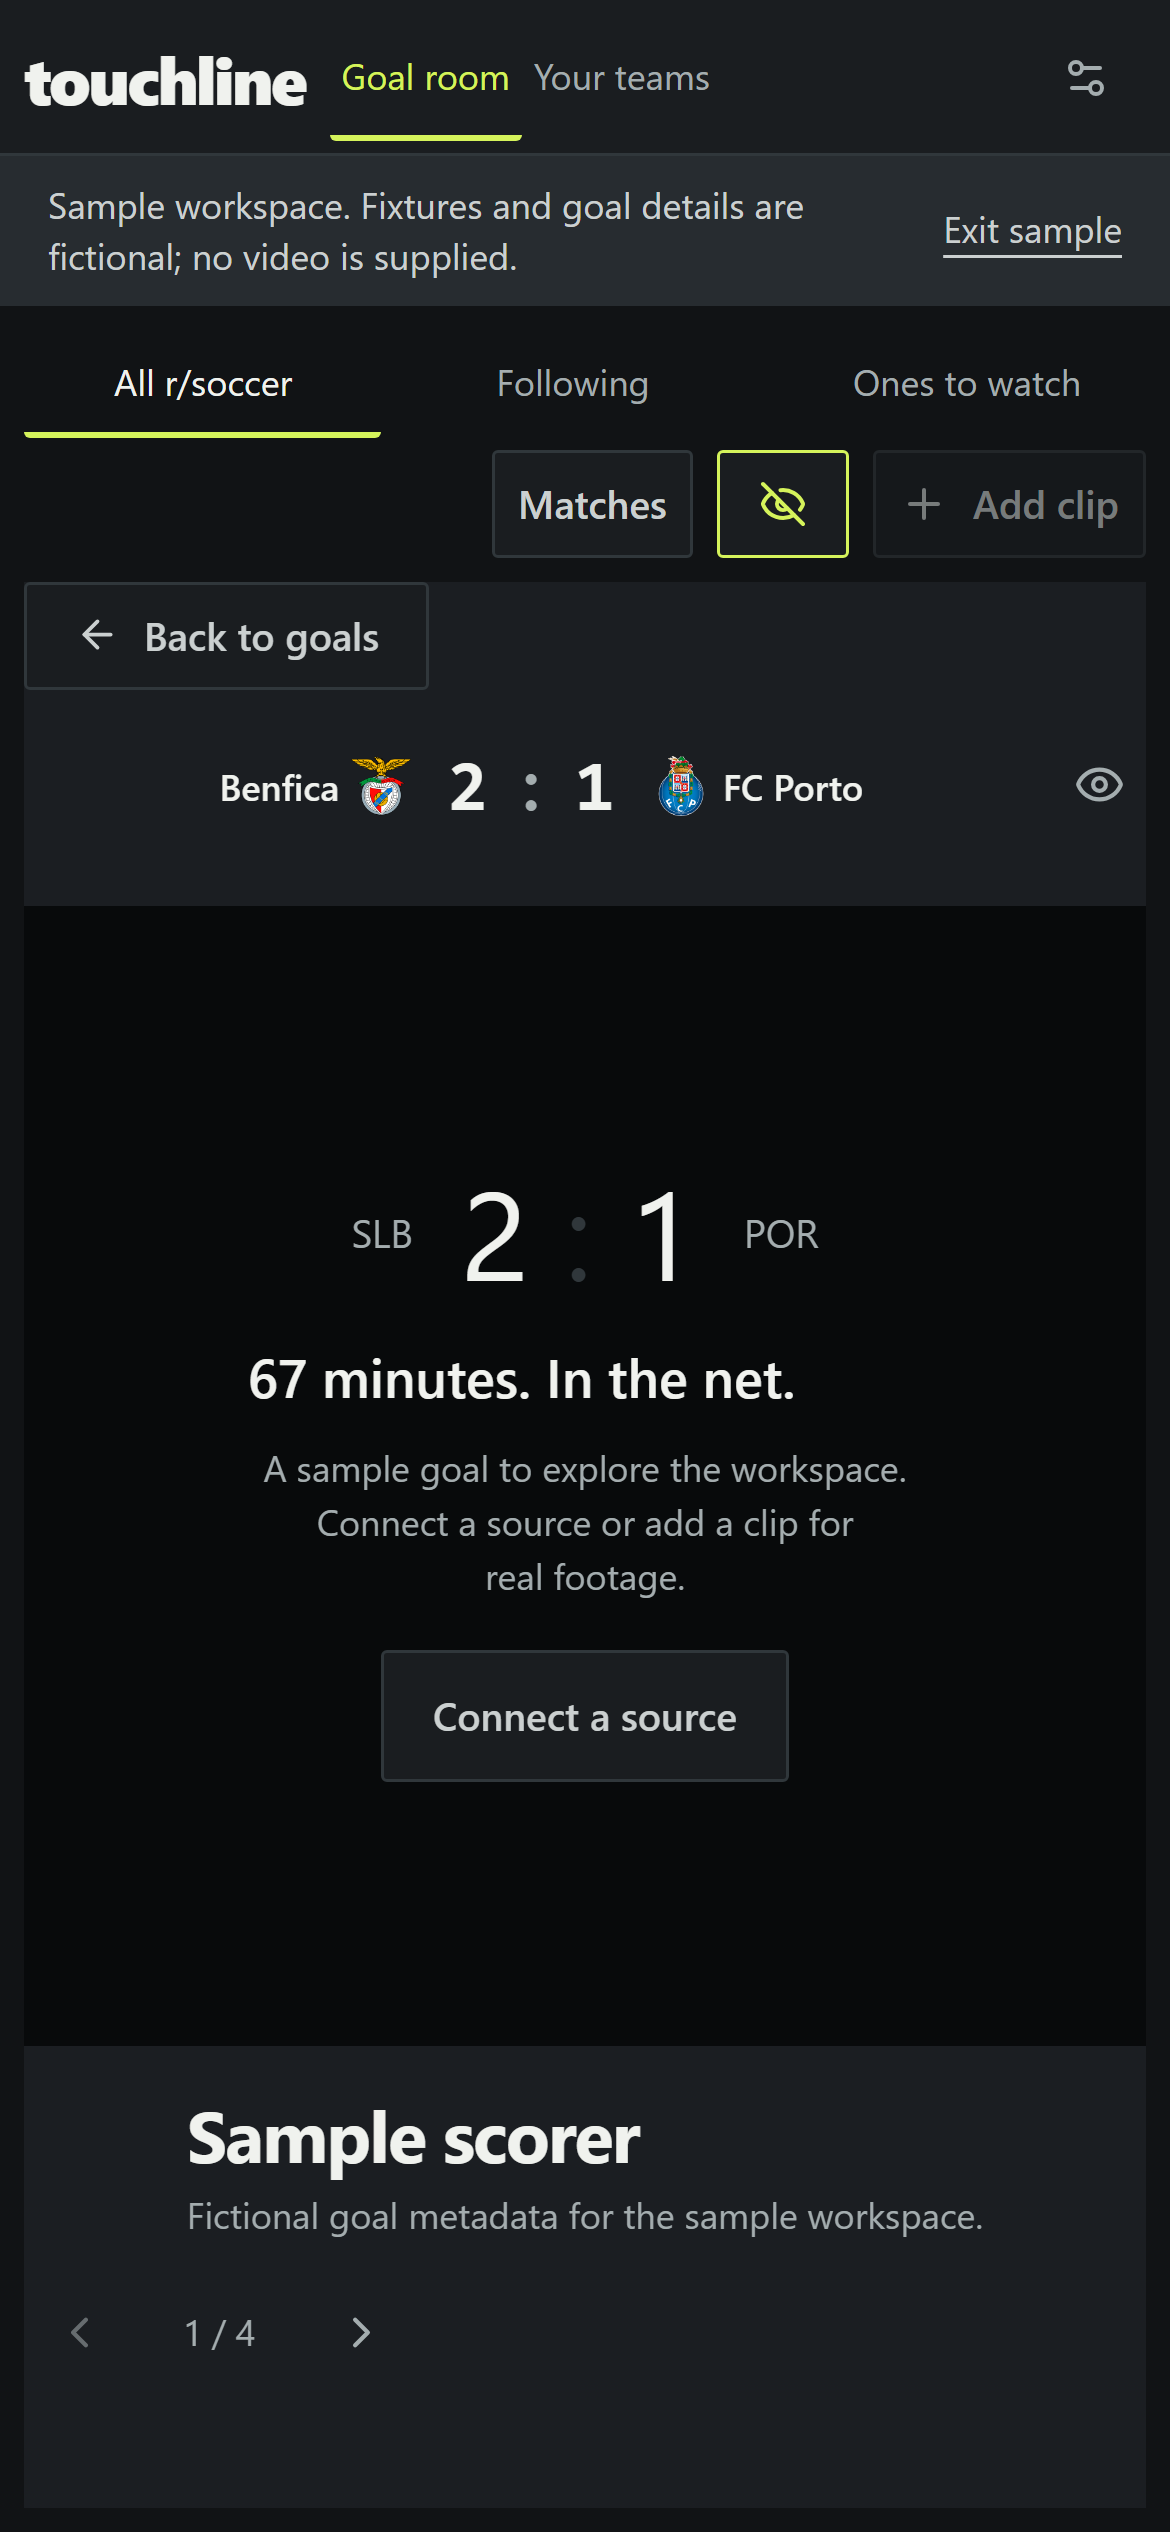
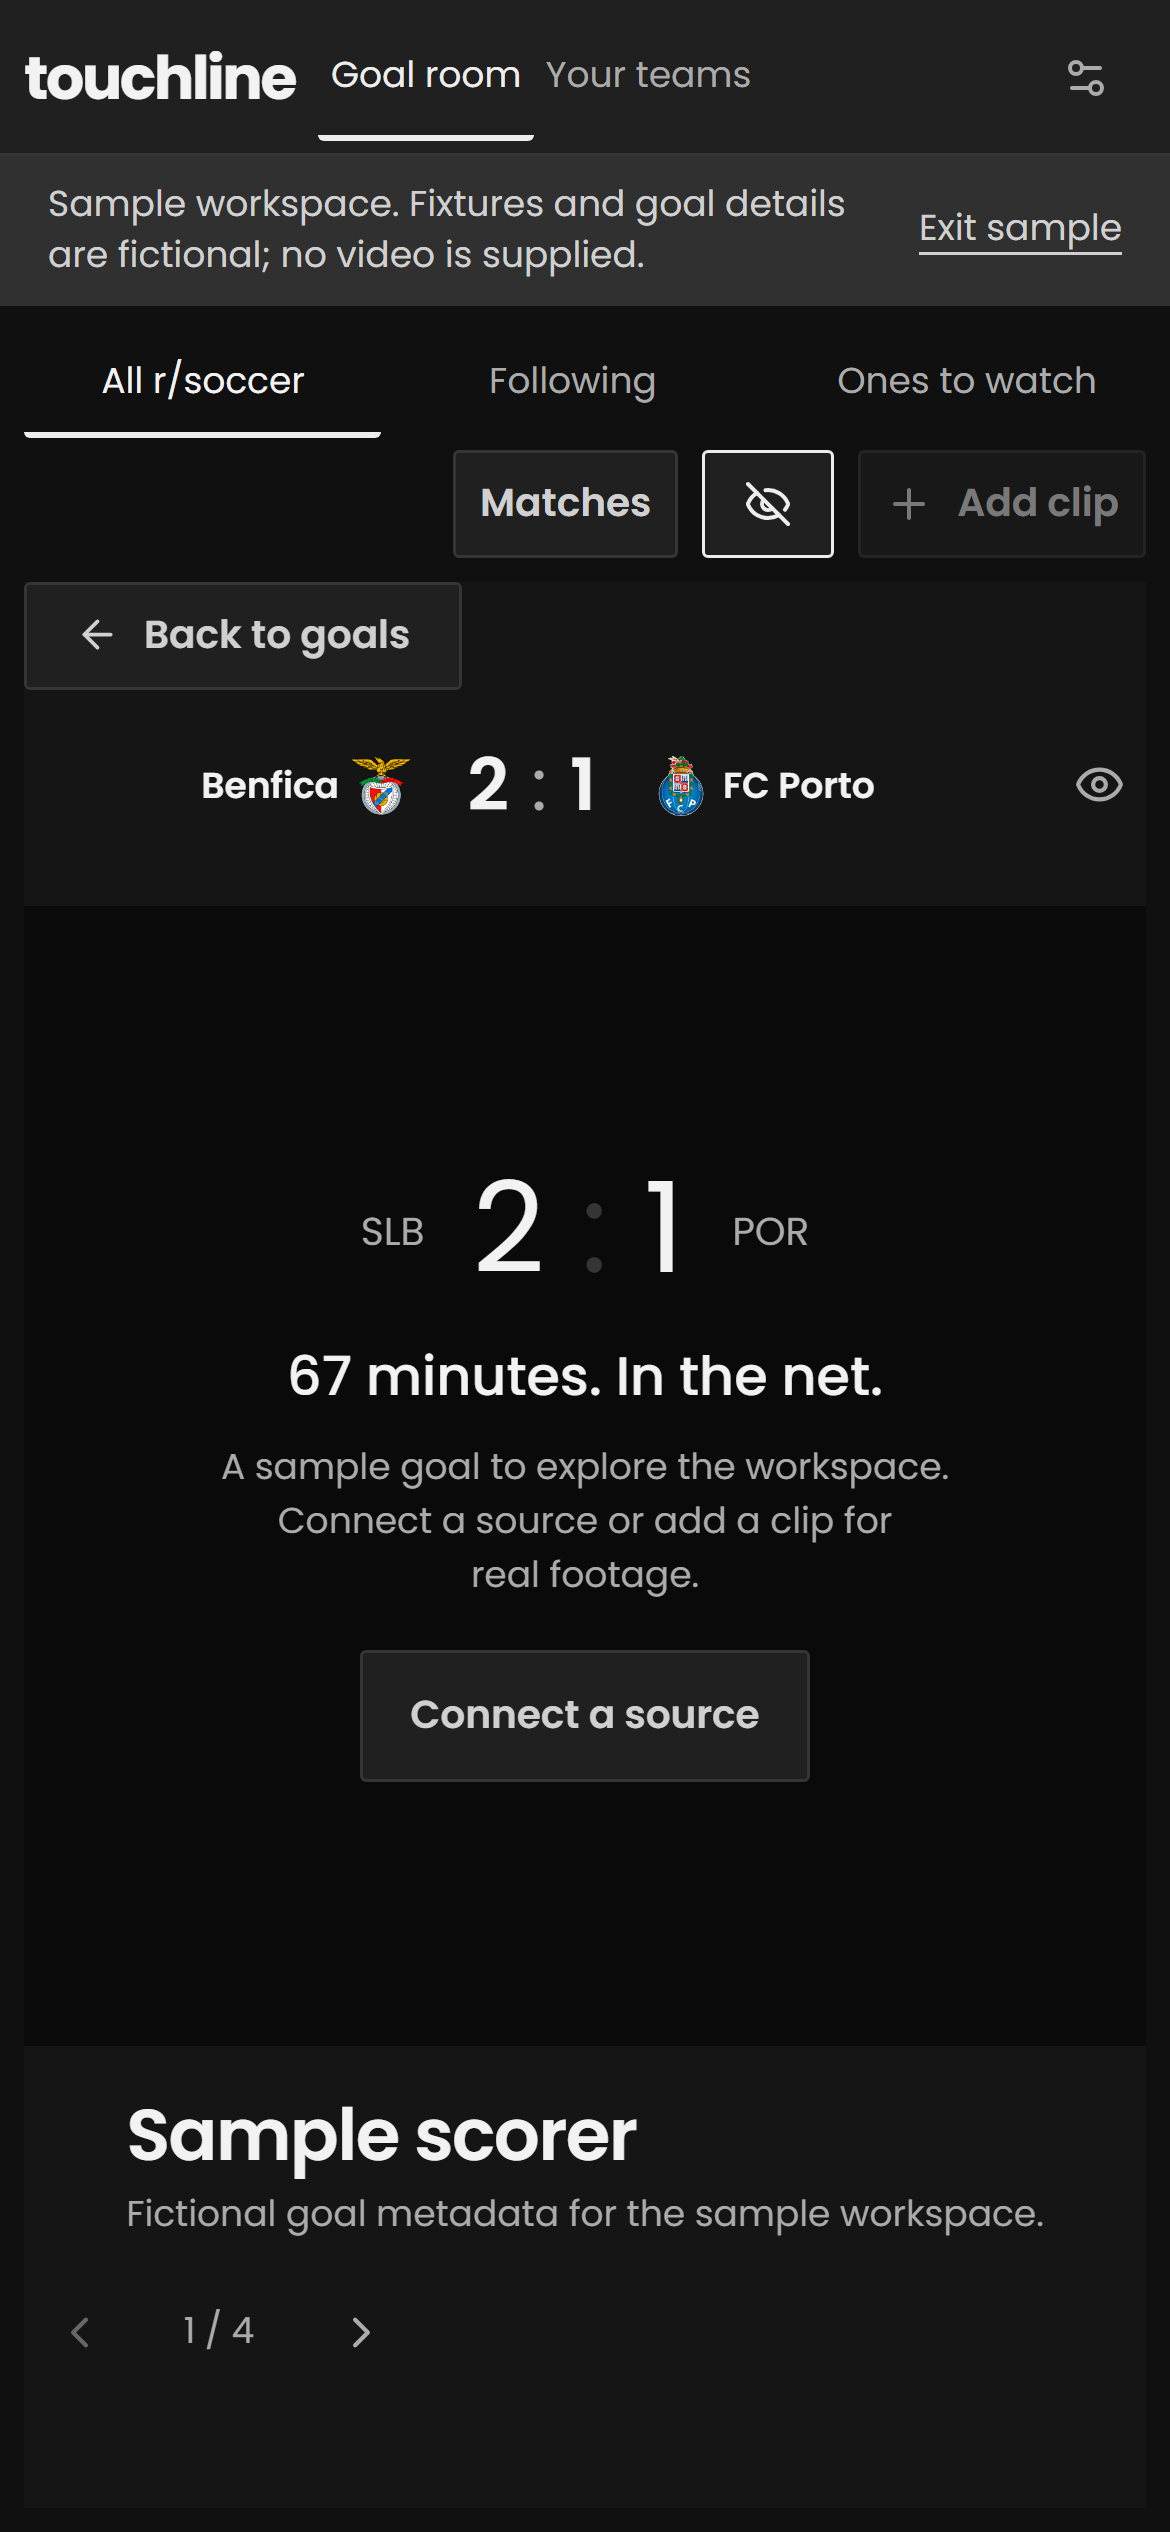
Unify Touchline in neutral greys and locally hosted Poppins

diff --git a/web/src/style.css b/web/src/style.css
@@ -1,4 +1,4 @@
-/* Hallmark v2.0.0 · theme: custom (graphite broadcast desk) · genre: atmospheric · shape: app screen · scope: app · redesign: full · signature: machined score strip, lime selection key and uninterrupted goal footage. */
+/* Hallmark v2.0.0 · theme: custom (neutral graphite desk) · genre: atmospheric · shape: app screen · scope: app · redesign: full · signature: machined score strip, white selection key and uninterrupted goal footage. */
 /* Hallmark · pre-emit critique: P4 H4 E4 S4 R5 V3 · weakest: V, existing shell retained; removed duplicated Sources chrome and lifted playback help off the footage. Finish review: in-thread, fix, 3 findings resolved (duplicate chrome, video overlays, scroll footer). */
 /* Hallmark · waive 39b · Goal rows exceed 52px · Each selectable goal contains minute, score, scorer and watch state; the entire row is a touch target rather than a toolbar button. */
 /* Hallmark · dismissed 3 · The goal row side rule marks the selected clip and changes with selection, rather than decorating unrelated content. */
@@ -2124,8 +2124,8 @@ summary:focus-visible {
   border-bottom-color: var(--color-rule);
 }
 .topbar .brand {
-  font: 800 28px/1 var(--font-body);
-  letter-spacing: -1.2px;
+  font: 700 26px/1 var(--font-body);
+  letter-spacing: -0.6px;
 }
 .topbar nav button {
   border-radius: 0;
@@ -2138,7 +2138,7 @@ summary:focus-visible {
 }
 .workspace-heading h1 {
   font-size: 20px;
-  font-weight: 650;
+  font-weight: 600;
   letter-spacing: -0.5px;
 }
 .quiet,
@@ -2168,7 +2168,7 @@ summary:focus-visible {
   background: var(--color-accent);
   color: var(--color-accent-ink);
   border: 1px solid var(--color-accent);
-  font-weight: 650;
+  font-weight: 600;
 }
 .primary:hover {
   background: var(--color-focus);
@@ -2216,7 +2216,7 @@ summary:focus-visible {
   padding-left: var(--space-sm);
 }
 .section-bar h2 {
-  font-weight: 650;
+  font-weight: 600;
 }
 .section-bar h2 > span {
   font-variant-numeric: tabular-nums;
@@ -2302,7 +2302,7 @@ summary:focus-visible {
   border-top: 1px solid var(--color-rule);
 }
 .clip-details h2 {
-  font: 650 clamp(23px, 2vw, 30px)/1.15 var(--font-body);
+  font: 600 clamp(23px, 2vw, 30px)/1.15 var(--font-body);
   letter-spacing: -0.6px;
 }
 .clip-navigation {
@@ -2668,4 +2668,36 @@ summary:focus-visible {
 .fixture:hover,
 .fixture.selected {
   background: var(--color-match-selected);
+}
+
+/* One type family and neutral tonal steps keep the dense workspace consistent. */
+.topbar .brand {
+  font-weight: 700;
+}
+.scoreboard-result,
+.goal-minute {
+  font-variant-numeric: tabular-nums;
+  letter-spacing: -0.4px;
+}
+.scoreboard-result {
+  font-weight: 600;
+}
+.goal-minute {
+  font-size: 14px;
+}
+.goal-team,
+.fixture-teams {
+  font-weight: 400;
+}
+.goal-copy strong {
+  font-weight: 500;
+}
+.clip-details h2 {
+  font-weight: 600;
+  letter-spacing: -0.5px;
+}
+@media (max-width: 760px) {
+  .topbar .brand {
+    font-size: 20px;
+  }
 }

diff --git a/web/src/tokens.css b/web/src/tokens.css
@@ -1,28 +1,28 @@
 :root {
   color-scheme: dark;
-  --color-paper: #111315;
-  --color-paper-2: #1a1d20;
-  --color-paper-3: #272c30;
-  --color-stage: #080a0b;
-  --color-ink: #f0f2ee;
-  --color-ink-2: #cbd0d0;
-  --color-muted: #a4adaf;
-  --color-rule: #30373b;
-  --color-accent: #d5f35b;
-  --color-accent-ink: #151b08;
-  --color-focus: #e1ff80;
+  --color-paper: #101010;
+  --color-paper-2: #202020;
+  --color-paper-3: #303030;
+  --color-stage: #0a0a0a;
+  --color-ink: #f2f2f2;
+  --color-ink-2: #d0d0d0;
+  --color-muted: #ababab;
+  --color-rule: #353535;
+  --color-accent: #ededed;
+  --color-accent-ink: #151515;
+  --color-focus: #fafafa;
   --color-error: #ffbca9;
   --color-clear: transparent;
-  --color-surface-edge: #535c61;
-  --color-inset: #080a0b;
-  --color-feed-surface: #18232a;
-  --color-feed-selected: #2a3b44;
-  --color-player-surface: #1b1e22;
-  --color-matches-surface: #22271c;
-  --color-match-selected: #333e27;
-  --font-body: "Segoe UI", Arial, sans-serif;
-  --font-display: "Arial Black", "Segoe UI", Arial, sans-serif;
-  --font-mono: Consolas, ui-monospace, monospace;
+  --color-surface-edge: #555555;
+  --color-inset: #0a0a0a;
+  --color-feed-surface: #1b1b1b;
+  --color-feed-selected: #343434;
+  --color-player-surface: #151515;
+  --color-matches-surface: #242424;
+  --color-match-selected: #3a3a3a;
+  --font-body: "Poppins", Arial, sans-serif;
+  --font-display: "Poppins", Arial, sans-serif;
+  --font-mono: "Poppins", Arial, sans-serif;
   --text-xs: 12px;
   --text-sm: 13px;
   --text-md: 16px;
@@ -43,7 +43,7 @@
   --space-xl: 40px;
   --space-2xl: 64px;
   --space-3xl: 96px;
-  --color-scrim: oklch(12% 0.008 230 / 0.75);
+  --color-scrim: rgb(0 0 0 / 0.75);
   --ease-out: cubic-bezier(0.16, 1, 0.3, 1);
   --dur-short: 220ms;
   --z-modal: 400;

diff --git a/web/index.html b/web/index.html
@@ -1,2 +1,2 @@
 <!doctype html>
-<html lang="en"><head><meta charset="UTF-8"><meta name="viewport" content="width=device-width,initial-scale=1"><meta name="theme-color" content="#141311"><meta name="description" content="Your teams, their matches, and the goals you came for."><link rel="icon" href="/icon.svg" type="image/svg+xml"><title>Touchline — Your goal room</title></head><body><div id="root"></div><noscript>Touchline needs JavaScript to load your teams and goal clips.</noscript><script type="module" src="/src/main.tsx"></script></body></html>
+<html lang="en"><head><meta charset="UTF-8"><meta name="viewport" content="width=device-width,initial-scale=1"><meta name="theme-color" content="#101010"><meta name="description" content="Your teams, their matches, and the goals you came for."><link rel="icon" href="/icon.svg" type="image/svg+xml"><title>Touchline — Your goal room</title></head><body><div id="root"></div><noscript>Touchline needs JavaScript to load your teams and goal clips.</noscript><script type="module" src="/src/main.tsx"></script></body></html>

diff --git a/web/src/main.tsx b/web/src/main.tsx
@@ -1,3 +1,7 @@
+import "@fontsource/poppins/latin-400.css";
+import "@fontsource/poppins/latin-500.css";
+import "@fontsource/poppins/latin-600.css";
+import "@fontsource/poppins/latin-700.css";
 import { StrictMode } from "react";
 import { createRoot } from "react-dom/client";
 import App from "./App";
